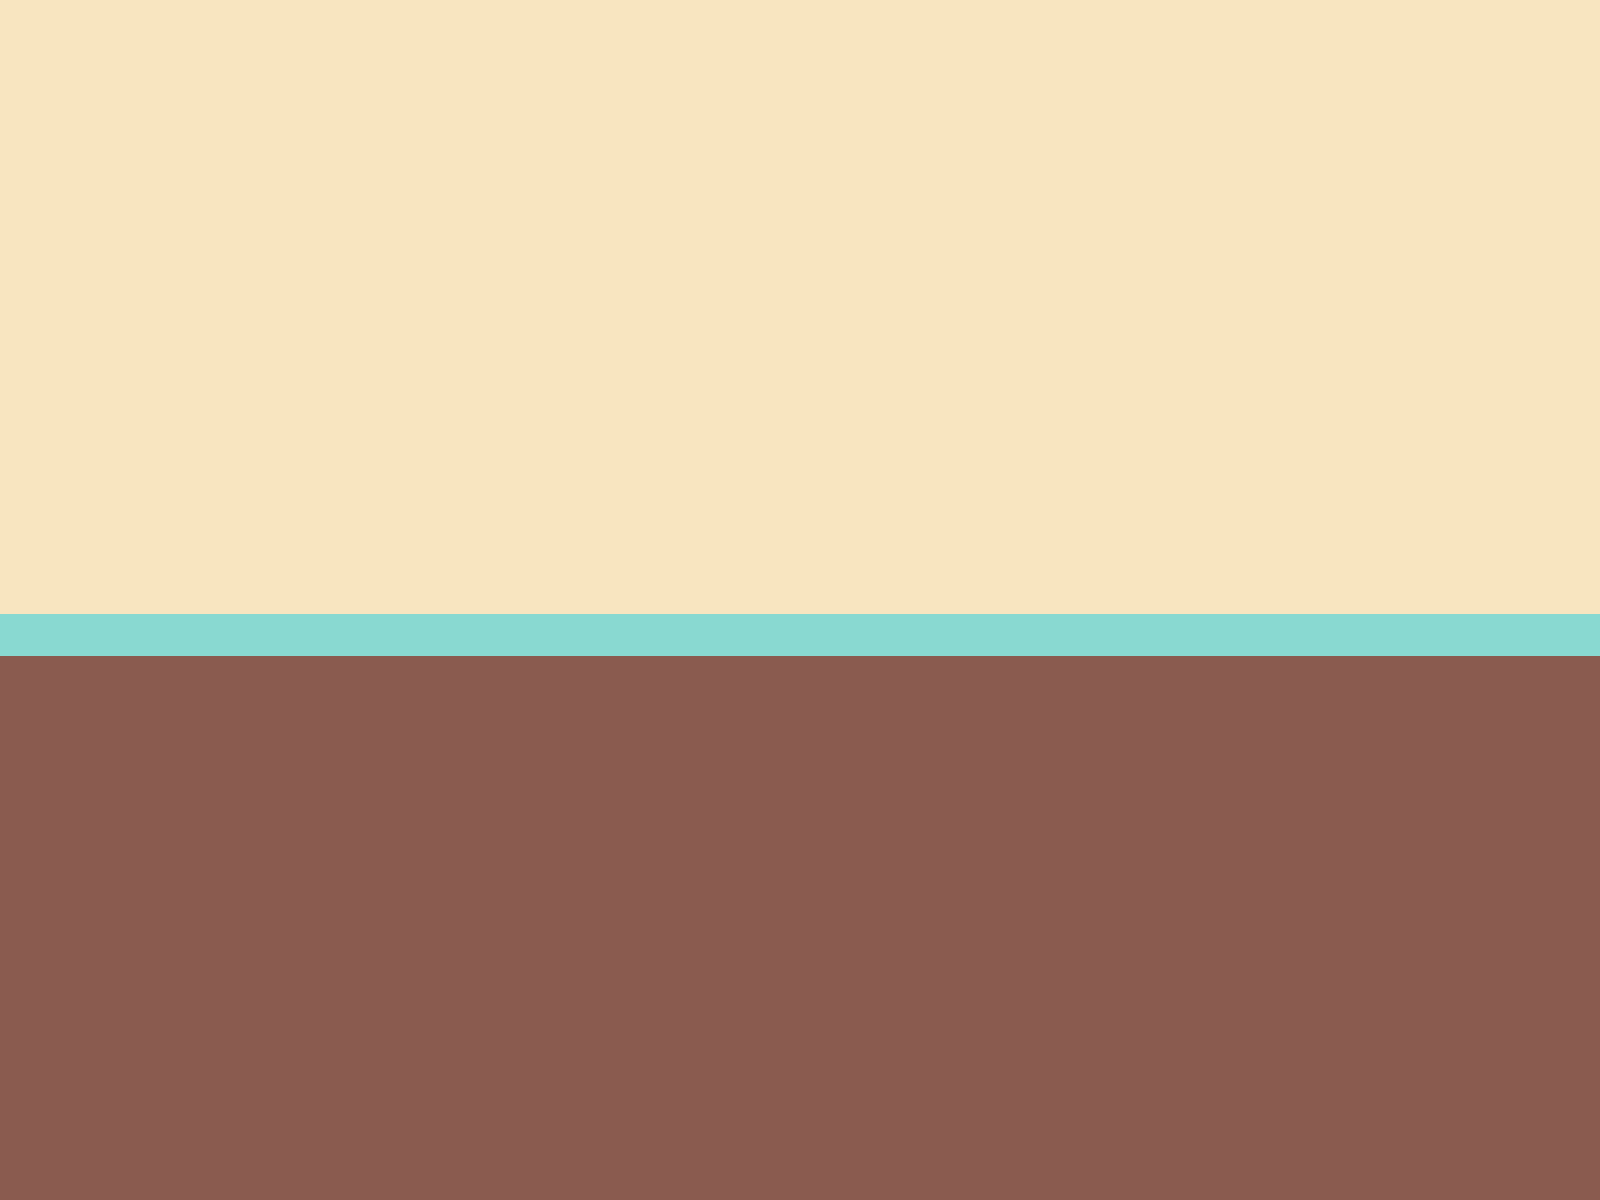
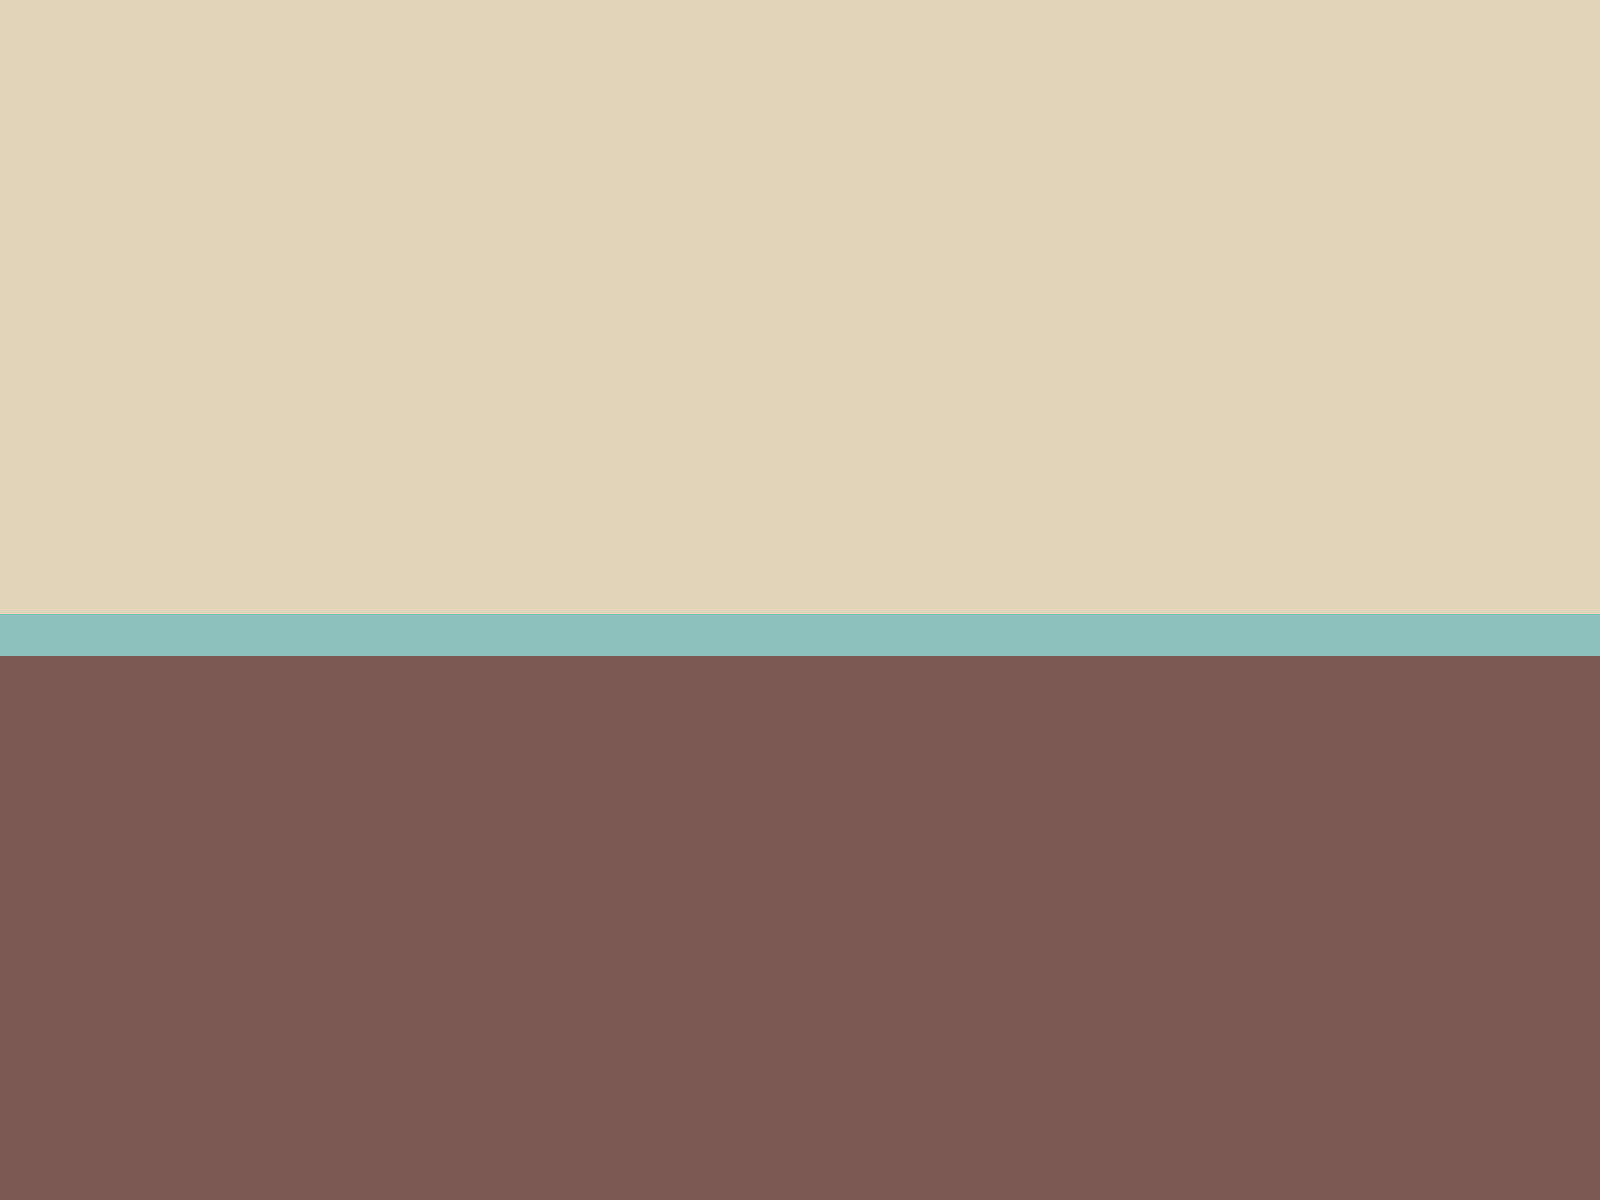
Added functionality

Changed region(s): [[0.0, 0.4933, 1.0, 0.555]]

diff --git a/indexJS.js b/indexJS.js
@@ -1,8 +1,14 @@
 console.log("Testing! If you see this everythings okay!");
 
+let display = document.getElementById('display');
 let ambienceButton = document.querySelector('#amb-btn');
 let ambience = document.querySelector('#amb');
 ambienceButton.addEventListener('click',play);
+let output = '';
+let op1 = '';
+let op2 = '';
+let currOpe = null;
+let resDisplay = false;
 
 // Ambience settings
 let temp = 0;
@@ -16,8 +22,6 @@ function play() {
         ambience.pause();
     }
 }
-
-let display = document.getElementById('display');
 
 function add(a, b) {
     return a + b;
@@ -36,6 +40,8 @@ function divide(a, b) {
 }
 
 function operate(a, op, b) {
+    a = Number(a);
+    b = Number(b);
     switch(op) {
         case "+":
             return add(a,b);
@@ -43,7 +49,7 @@ function operate(a, op, b) {
             return subtract(a,b);
         case "*":
             return multiply(a,b);
-        case "/":
+        case "÷":
             if(b === 0){
                 return "You can't divide by 0, silly!";
             }
@@ -53,11 +59,56 @@ function operate(a, op, b) {
 
 let digitBtns = document.querySelectorAll('#digit');
 digitBtns.forEach(btn => {
-    btn.addEventListener('click',test);
+    btn.addEventListener('click',displayNum);
 });
 
-
-function test(e) {
-    display.textContent = e.target.textContent
+function displayNum(e) {
+    if(screen.textContent === '' || resDisplay) resetDisplay;
+    display.textContent += e.target.textContent;
 }
 
+let operatorBtn = document.querySelectorAll('#op');
+operatorBtn.forEach(btn => {
+    btn.addEventListener('click', setOp);
+});
+
+function setOp(operator) {
+    if(currOpe !== null) evaluate();
+    op1 = display.textContent;
+    currOpe = operator.target.textContent;
+    resetDisplay();
+}
+
+let delBtn = document.querySelector('#del');
+delBtn.addEventListener('click',clear);
+
+function clear() {
+    op1= '';
+    op2= '',
+    display.textContent = '';
+}
+
+function resetDisplay() {
+    display.textContent = '';
+    resDisplay = false;
+}
+
+let equalButton = document.querySelector('#submit');
+equalButton.addEventListener('click',evaluate);
+
+function evaluate() {
+    if(currOpe === null || resDisplay) return;
+    if(currOpe === "÷" && display.textContent === "0") {
+        alert("You can't divide by 0,silly!");
+        alert("You don't wanna blow up the universe now, do you?")
+        clear();
+        return;
+    }
+    op2 = display.textContent;
+    display.textContent = roundOutput(operate(op1,currOpe,op2));
+    currOpe = null;
+}
+
+function roundOutput(e) {
+    return Math.round(e * 1000) / 1000;
+}

diff --git a/index.html b/index.html
@@ -15,19 +15,19 @@
                 <button class="btn" id="digit">1</button>
                 <button class="btn" id="digit">2</button>
                 <button class="btn" id="digit">3</button>
-                <button class="btn">+</button>
+                <button class="btn" id="op">+</button>
                 <button class="btn" id="digit">4</button>
                 <button class="btn" id="digit">5</button>
                 <button class="btn" id="digit">6</button>
-                <button class="btn" >-</button>
+                <button class="btn" id="op">-</button>
                 <button class="btn" id="digit">7</button>
                 <button class="btn" id="digit">8</button>
                 <button class="btn" id="digit">9</button>
-                <button class="btn">÷</button>
+                <button class="btn" id="op">÷</button>
                 <button class="btn" id="digit">0</button>
                 <button class="btn" id="del">C</button>
                 <button class="btn" id="submit">=</button>
-                <button class="btn">*</button>
+                <button class="btn" id="op">*</button>
             </div>
         </div>
         </div>

diff --git a/indexstyle.css b/indexstyle.css
@@ -6,7 +6,6 @@
 html {
     background-image: url(background.png);
     background-position-y: center;
-    background-blend-mode: saturation;
 }
 
 
